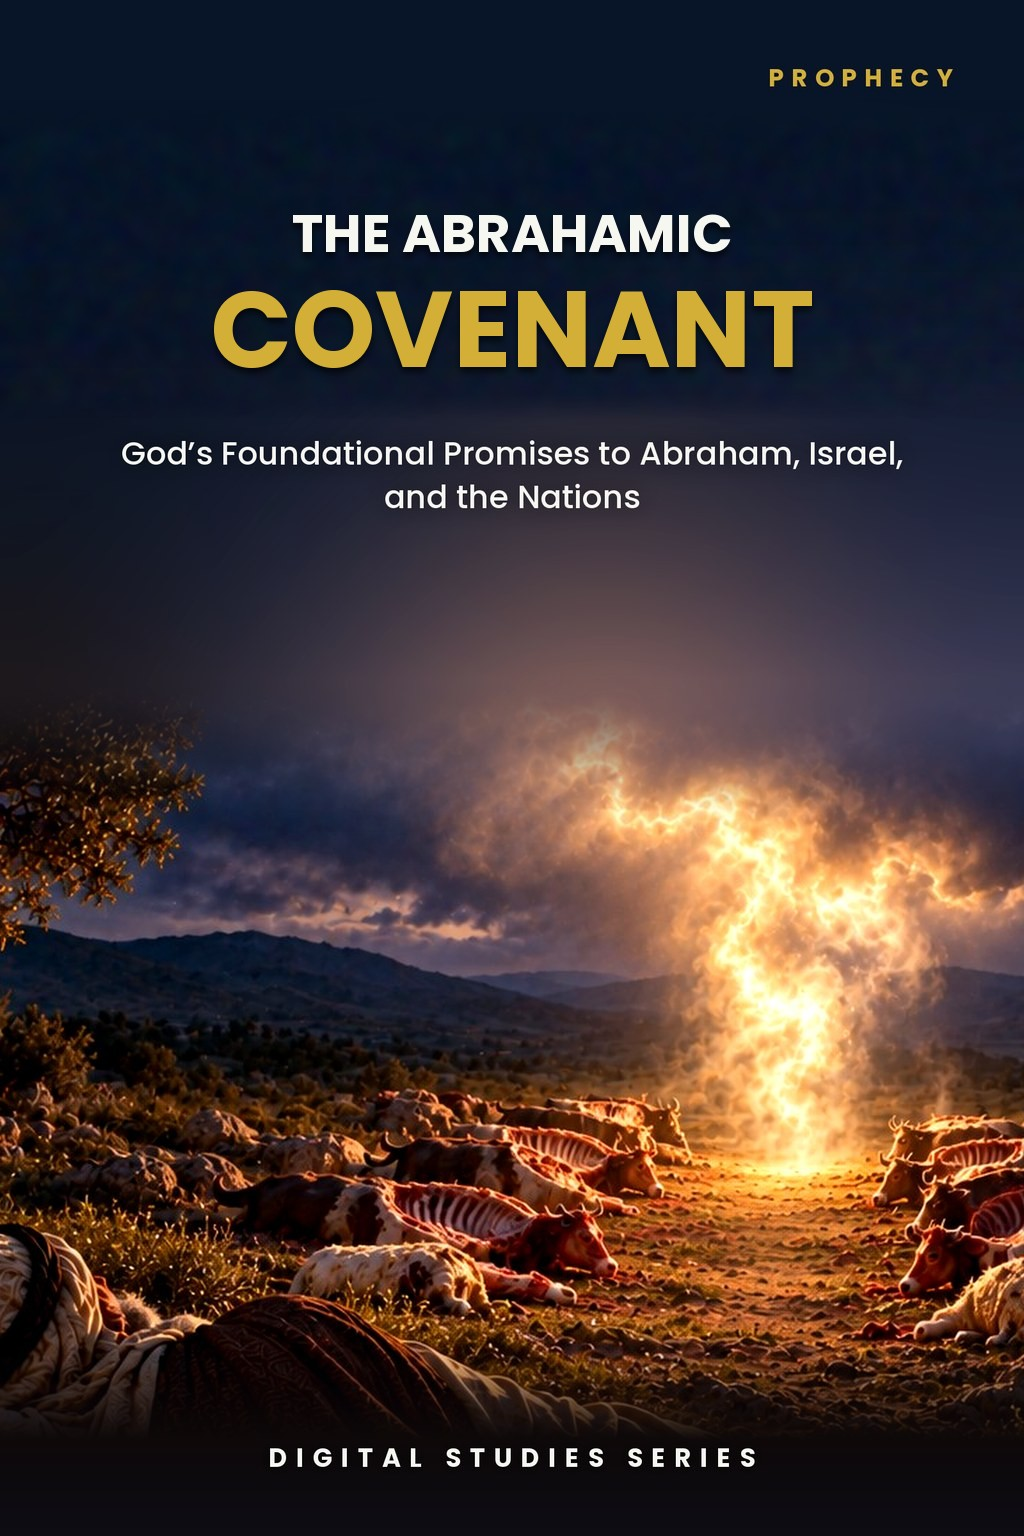
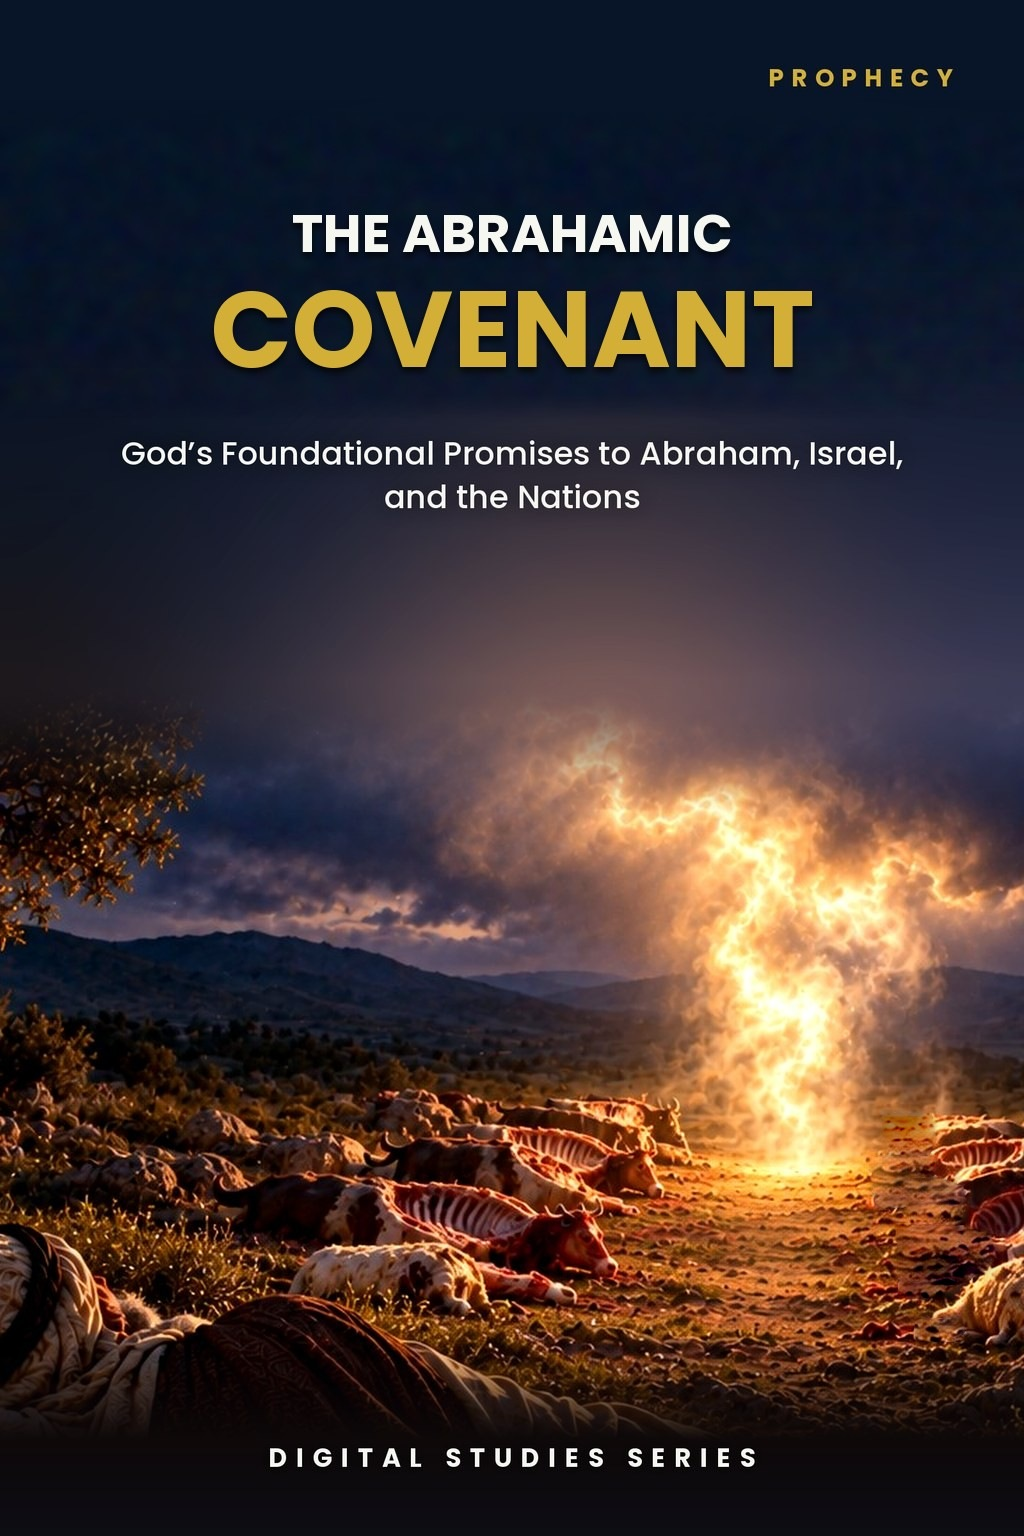
Study 17: rebuild to Master Standard v1.30 (Roboto, 18 pages by publisher exception); new cover (heads removed); preview strip re-cut to three cards; site.js page count 18; tracker v1.41
Claude-Session: https://claude.ai/code/session_01TLNFW47XCW6YAMUxScR3v4

Changed region(s): [[0.8438, 0.7188, 0.9688, 0.875]]

diff --git a/study-17-the-abrahamic-covenant.html b/study-17-the-abrahamic-covenant.html
@@ -519,66 +519,7 @@
           <p class="preview-instruction">
             Click any page to enlarge it for reading.
           </p>
-          <div class="preview-grid">
-            <div class="preview-card">
-              <a
-                class="preview-image-link"
-                data-preview-lightbox
-                href="assets/study-17-page-2.jpg"
-                ><img
-                  src="assets/study-17-page-2.jpg"
-                  alt="Study 17 interior preview - page 2, what you will learn"
-              /></a>
-              <div class="page-no">Page 2</div>
-              <h3>What You Will Learn</h3>
-              <p>Begin with the covenant’s original promises and the study’s governing distinctions.</p>
-            </div>
-            <div class="preview-card">
-              <a
-                class="preview-image-link"
-                data-preview-lightbox
-                href="assets/study-17-page-6.jpg"
-                ><img
-                  src="assets/study-17-page-6.jpg"
-                  alt="Study 17 interior preview - page 5, God ratifies the covenant in Genesis 15"
-              /></a>
-              <div class="page-no">Page 5</div>
-              <h3>God Ratifies the Covenant</h3>
-              <p>
-                Examine Abram’s deep sleep and God’s covenant ratification in Genesis 15.
-              </p>
-            </div>
-            <div class="preview-card">
-              <a
-                class="preview-image-link"
-                data-preview-lightbox
-                href="assets/study-17-page-9.jpg"
-                ><img
-                  src="assets/study-17-page-9.jpg"
-                  alt="Study 17 interior preview - page 8, Abrahamic and Mosaic covenants distinguished"
-              /></a>
-              <div class="page-no">Page 8</div>
-              <h3>Two Covenants Distinguished</h3>
-              <p>
-                Compare the Abrahamic promise with the later Mosaic covenant at Sinai.
-              </p>
-            </div>
-            <div class="preview-card">
-              <a
-                class="preview-image-link"
-                data-preview-lightbox
-                href="assets/study-17-page-12.jpg"
-                ><img
-                  src="assets/study-17-page-12.jpg"
-                  alt="Study 17 interior preview - page 12, conclusion and study summary"
-              /></a>
-              <div class="page-no">Page 12</div>
-              <h3>Study Summary</h3>
-              <p>
-                Review the covenant’s line, land, blessing, and continuing place in prophecy.
-              </p>
-            </div>
-          </div>
+          <div class="preview-grid"><div class="preview-card"><a class="preview-image-link" data-preview-lightbox href="assets/study-17-page-2.jpg"><img src="assets/study-17-page-2.jpg" alt="Study 17 interior preview — page 2, table of contents"/></a><div class="page-no">Page 2</div><h3>Table of Contents</h3><p>See the full structure of the study, from the introduction through the final synthesis.</p></div><div class="preview-card"><a class="preview-image-link" data-preview-lightbox href="assets/study-17-page-3.jpg"><img src="assets/study-17-page-3.jpg" alt="Study 17 interior preview — page 3, what you will learn"/></a><div class="page-no">Page 3</div><h3>What You Will Learn</h3><p>See the skills and interpretive disciplines you will practice, plus the study goal and outline.</p></div><div class="preview-card"><a class="preview-image-link" data-preview-lightbox href="assets/study-17-page-5.jpg"><img src="assets/study-17-page-5.jpg" alt="Study 17 interior preview — page 5, Genesis 12:1–3 phrase by phrase"/></a><div class="page-no">Page 5</div><h3>Genesis 12:1–3, Phrase by Phrase</h3><p>Read the call of Abram clause by clause, noting what God promises and how each statement is worded.</p></div></div>
         </div>
       </section>
       <section class="detail-section">

diff --git a/site.js b/site.js
@@ -62,7 +62,7 @@ const resourceModal=document.querySelector('#resource-modal'), resourceModalTitl
 if(resourceModal&&resourceModalTriggers.length){const closeResourceModal=()=>{resourceModal.hidden=true;document.body.classList.remove('resource-modal-open');lastResourceTrigger?.focus();};resourceModalTriggers.forEach(trigger=>trigger.addEventListener('click',()=>{lastResourceTrigger=trigger;if(resourceModalTitle)resourceModalTitle.textContent=trigger.dataset.title||'Resource';if(resourceModalDescription)resourceModalDescription.textContent=trigger.dataset.description||'';if(resourceModalLink){resourceModalLink.href=trigger.dataset.href||'#';resourceModalLink.textContent=trigger.dataset.linkText||'OPEN RESOURCE';}resourceModal.hidden=false;document.body.classList.add('resource-modal-open');resourceModalClose?.focus();}));resourceModalClose?.addEventListener('click',closeResourceModal);resourceModal.addEventListener('click',e=>{if(e.target===resourceModal)closeResourceModal();});document.addEventListener('keydown',e=>{if(e.key==='Escape'&&!resourceModal.hidden)closeResourceModal();});}
 
 /* Display the verified final-PDF page count at the primary purchase decision point. */
-const digitalStudyPageCounts={1:14,2:14,3:18,4:18,5:16,6:16,7:16,8:16,9:16,10:23,11:15,12:14,13:18,14:15,15:16,16:16,17:14,18:13,19:13,20:13,21:14,22:15,23:15,24:13,25:13,26:17,27:15,28:14,29:13,30:17,31:17,32:14,33:15,34:16,35:15,36:15,37:15,38:16,39:16,40:15,41:15,42:15,43:17,44:15,45:15,46:15,47:16,48:15,49:14,50:14,51:15,52:15,53:15,54:15,55:16,56:16,61:16,62:16,63:16,64:16,65:16,66:16,67:16,68:16,69:16,70:16,71:16};
+const digitalStudyPageCounts={1:14,2:14,3:18,4:18,5:16,6:16,7:16,8:16,9:16,10:23,11:15,12:14,13:18,14:15,15:16,16:16,17:18,18:13,19:13,20:13,21:14,22:15,23:15,24:13,25:13,26:17,27:15,28:14,29:13,30:17,31:17,32:14,33:15,34:16,35:15,36:15,37:15,38:16,39:16,40:15,41:15,42:15,43:17,44:15,45:15,46:15,47:16,48:15,49:14,50:14,51:15,52:15,53:15,54:15,55:16,56:16,61:16,62:16,63:16,64:16,65:16,66:16,67:16,68:16,69:16,70:16,71:16};
 const digitalStudyMatch=window.location.pathname.match(/\/study-(\d+)-/i);
 const digitalStudyFormat=document.querySelector('.detail-hero .detail-format');
 if(digitalStudyMatch&&digitalStudyFormat){const studyNumber=Number(digitalStudyMatch[1]),pageCount=digitalStudyPageCounts[studyNumber];if(pageCount)digitalStudyFormat.textContent=`Digital PDF · ${pageCount} Pages`;}

diff --git a/controlling-documents/Digital_Studies_PAM_Audit_v1.41.md b/controlling-documents/Digital_Studies_PAM_Audit_v1.41.md
@@ -1,8 +1,8 @@
-# Digital Studies vs. PAM Audit — v1.40
+# Digital Studies vs. PAM Audit — v1.41
 
 Working tracker and instructions for checking the Digital Studies against the Program Assignment Manual (PAM), §XIX of `Framework_Control_Document_Acts_Overlap.docx`, including its "Section 4 — Publisher Rulings". Same `_vX.Y` convention as the other controlling documents: update the status table and changelog as the audit proceeds, bump the version, and rename the file to match.
 
-Status: IN PROGRESS (batch method, see "Working method"). Website-text pass done for all 71 studies. Interior PDFs read in full: 46 of 71 (45 before 2026-09-30 evening, plus Study 1). Keyword sweep with flagged passages read, not a full read: 10, 41, 43, 44. Conflicts found and fixed: 9, 35, 42, 49, 50, 52. Still unread: 2, 3, 6, 8, 15, 17, 22, 24, 27, 30, 31, 32, 33, 39, 47, 51, 53, 54, 56, 67, 71 (21 studies; PDFs for 2, 3, 6 and 8 received 2026-09-30). Batch 1 (Studies 1-15) COMPLETE as of 2026-10-01: every study read against the PAM/Framework and rebuilt or re-cut to the Master Standard and pushed (Studies 3, 4, 5 spacing re-cuts delivered, not pushed, by publisher decision). Batch 2 (Studies 16-30) in progress: Study 16 done (2026-10-01).
+Status: IN PROGRESS (batch method, see "Working method"). Website-text pass done for all 71 studies. Interior PDFs read in full: 46 of 71 (45 before 2026-09-30 evening, plus Study 1). Keyword sweep with flagged passages read, not a full read: 10, 41, 43, 44. Conflicts found and fixed: 9, 35, 42, 49, 50, 52. Still unread: 2, 3, 6, 8, 15, 17, 22, 24, 27, 30, 31, 32, 33, 39, 47, 51, 53, 54, 56, 67, 71 (21 studies; PDFs for 2, 3, 6 and 8 received 2026-09-30). Batch 1 (Studies 1-15) COMPLETE as of 2026-10-01: every study read against the PAM/Framework and rebuilt or re-cut to the Master Standard and pushed (Studies 3, 4, 5 spacing re-cuts delivered, not pushed, by publisher decision). Batch 2 (Studies 16-30) in progress: Studies 16 and 17 done (2026-10-01).
 
 ## Rules
 
@@ -66,6 +66,7 @@ Priority list (publisher's list):
 | 14 Acts 9 and the Beginning of Mystery | Clear (rebuilt, publisher approved) | Acts 1–8; Acts 9–28; Acts 10–11 ruling; Acts 15 ruling | Acts 10–12 presented as Peter's continuing ministry. PDF: confirm Acts 10–11 stays a Prophecy Program event. |
 | 15 Faith and Works in James and Paul | Clear (rebuilt, publisher approved) | James 1:1 audience; Romans 3–4 not assigned (Framework silent); Acts 15 pointer only | James kept in the Prophecy setting; Paul's justification stated for the Body; one finished work of Christ preserved. |
 | 16 The Believer's Identity in Christ | Clear (rebuilt, publisher approved) | Rom 6:3 = Spirit baptism into the Body (Mystery), not water baptism; 1 Cor 12:13; Eph 2; Eph 1:10–12 deliberately not used; no John 14, Acts 10–11, Acts 15 or Rom 11:25 | PDF read: no wording conflicts. Expanded from 12 to 16 pages with six KJV exegetical sections. |
+| 17 The Abrahamic Covenant | Clear (rebuilt, publisher approved) | Framework and PAM silent on Genesis (text only); Acts 9–28 Overlap; Acts 28 suspension not abolition; Gal 3 not cited | PDF read: no wording conflicts. Publisher's Blessing box wording kept inside Genesis 22:18 ("Through Abraham's seed, blessing reaches every nation"); his suggested "Christ, salvation and grace" wording was not used because it imports the Gal 3 Seed identification and Mystery terms, and he approved the revision. |
 | 18 Peter and Paul: Distinct Apostolic Commissions | Clear | Acts 9–28 Overlap; Acts 15; Galatians 2:7 | |
 | 19 The Jerusalem Council | Clear (PDF) | Acts 15 ruling (Overlap, not one program); Acts 10–11 ruling | PDF read: Acts 15 = recognition without absorption inside the Overlap; Acts 10 not assigned to the Body. |
 | 20 Understanding Acts 2:38 | Clear | Acts 2 details (Kingdom entry; Joel 2; not Spirit baptism into the Body) | |
@@ -269,3 +270,4 @@ Study 15 PDF not yet supplied. Typography: none of Studies 2, 3, 6, 8 is in EB G
 - v1.38 (2026-10-01): Study 15 (Faith and Works in James and Paul) read in full against the PAM and Framework from the publisher's PDF (v6, 13 pages; no DOCX): clear, no wording changes (James 1:1 "twelve tribes" used as the audience marker and James kept in the Prophecy setting; the Framework does not mention James; Romans 3–4, Galatians 2:16 and Ephesians 2:8–10 are not assigned in the PAM and the study makes no Body-identity or covenant claim from them; Acts 15 appears only as a pointer, consistent with the Overlap ruling; no two-saviors or two-crosses claim). Rebuilt to Master Standard v1.30 in Roboto: 16 pages (cover plus 15 interior), five boxed callouts (Audience Control became a run-in body paragraph), drafted process-only Study Outline, Teaching Outline as bullets, review questions renumbered 1–17 (the source restarted at 1 after question 12), duplicated trace-table header removed, tables restyled. Cover: the website cover with both title lines ("FAITH AND WORKS IN" and "JAMES AND PAUL") reduced to 80%, placed at 75% size on the PDF page; publisher approved. Preview strip re-cut to three cards (TOC p2, What You Will Learn p3, p5); old p6, p9, p11 previews removed; site.js page count 13 to 16. Publisher approved ("approve") and pushed.
 - v1.39 (2026-10-01): Housekeeping, no study files changed. After the publisher asked about a Batch 1 status table that had been written partly from memory, the table was checked against the tracker and the git history and the stale rows were brought up to date: status header (Batch 1 complete), the status-table rows for Studies 1, 2/3/6/8/15, 4/5/7/11-14, 9 and 10, and the per-study rows for Studies 8, 9 and 11. Corrections to the earlier chat table: Study 11 was rebuilt and pushed (4a400ed), not only reviewed; Study 9's push was the preview strip re-cut (1075f6b) with the interior rebuild approved in v1.23, and its live check is still open. Study 8 TOC re-checked against the delivered final PDF: 26 of 26 entries have page numbers that match, no placeholder line. The live purchasable files are swapped by the publisher and are not in the repo, so they were not inspected.
 - v1.40 (2026-10-01): Study 16 (The Believer's Identity in Christ) read in full against the PAM and Framework from the publisher's PDF (14 pages; no DOCX): clear, no wording changes. Rebuilt in Roboto to Master Standard v1.30 and expanded from 12 to 16 pages (cover plus 15 interior) with six exegetical sections approved by the publisher (Ephesians 1:3–14 traced phrase by phrase; Romans 6 know, reckon, yield, with 6:3 read as Spirit baptism into the Body; Galatians 2:20 and Colossians 3:1–4; 1 Corinthians 12:12–27; the verbs quickened, raised, seated; hinge words between position and practice). Central Thesis moved off the "What You Will Learn" page. New cover from the publisher's artwork, title and subtitle at 75%. Five boxed callouts (three others became run-in paragraphs). Publisher approved ("i approve"); preview strip cut to three cards (pages 2, 3, 5), old previews removed, site.js count 16. Also recorded: the publisher confirmed Study 9 on his phone on 2026-10-01, closing that open item. Live check of Study 16 pending his phone.
+- v1.41 (2026-10-01): Study 17 (The Abrahamic Covenant) read in full against the PAM and Framework from the publisher's PDF (14 pages; no DOCX): clear, no wording changes (Genesis passages are Framework-silent so the text is reported only; Acts 9–28 Overlap and the Acts 28 suspension stated as in the Framework). Rebuilt in Roboto to Master Standard v1.30 at 18 pages (cover plus 17 interior; the publisher approved an exception to the 15-page rule so that no exegetical content would be cut). Eight callouts, five kept boxed (Study Goal, Interpretive Control, Covenant Certainty, Do Not Collapse the Covenants, Overlap Control). Central Thesis moved off the preview page; Study Outline drafted. Exegetical expansion in KJV: Genesis 12:1–3 phrase table, land-language build-up, Genesis 15:1–8 and Jeremiah 34:18 comparison, Genesis 17, confirmations table (Genesis 22, 26, 28), Leviticus 26:42–44, covenant memory (Exodus, Deuteronomy, Psalm 105), the blessing formula and Isaiah 2 / Zechariah 8. The text teaching map was replaced by a diagram (Abraham to Nation, Land and Blessing). New cover: the right-side animals' heads removed from the existing art, approved by the publisher. Preview strip cut to three cards (pages 2, 3, 5), old previews removed, site.js count 18. Live check pending his phone.
